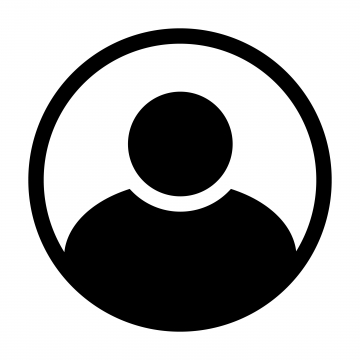
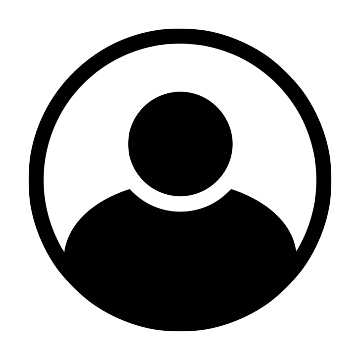
add placeholder image to account's image

Changed region(s): [[0.7944, 0.7639, 0.825, 0.7944], [0.7639, 0.7944, 0.7944, 0.825], [0.1833, 0.1833, 0.2139, 0.2139]]

diff --git a/lib/screens/home/components/account/account.dart b/lib/screens/home/components/account/account.dart
@@ -39,15 +39,23 @@ class _AccountState extends State<Account> {
               Padding(
                 padding: const EdgeInsets.only(right: 10),
                 child: Container(
+                  clipBehavior: Clip.hardEdge,
                   width: 60,
                   height: 60,
                   decoration: BoxDecoration(
                     shape: BoxShape.circle,
                     boxShadow: [kDefaultShadow],
-                    image: DecorationImage(
-                      image: NetworkImage(_user != null ? _user.photoURL : ''),
-                      fit: BoxFit.cover,
-                    ),
+                    // image: DecorationImage(
+                    //   image: NetworkImage(_user != null ? _user.photoURL : ''),
+                    //   fit: BoxFit.cover,
+                    // ),
+                  ),
+                  child: FadeInImage(
+                    placeholder: AssetImage("assets/images/user.png"),
+                    image: NetworkImage(_user != null ? _user.photoURL : ''),
+                    fit: BoxFit.cover,
+                    fadeInDuration: const Duration(milliseconds: 125),
+                    fadeOutDuration: const Duration(milliseconds: 125),
                   ),
                 ),
               ),

diff --git a/lib/screens/home/components/explore/components/activity_recommendation_card_vertical.dart b/lib/screens/home/components/explore/components/activity_recommendation_card_vertical.dart
@@ -24,12 +24,14 @@ class ActivityRecommendationCardVertical extends StatelessWidget {
       clipBehavior: Clip.hardEdge,
       height: _cardheight,
       decoration: BoxDecoration(
-          color: Colors.white,
-          border: Border(
-              bottom: BorderSide(
+        color: Colors.white,
+        border: Border(
+          bottom: BorderSide(
             color: fadedTextColor,
             width: 0.5,
-          ))),
+          ),
+        ),
+      ),
       child: Row(children: [
         Container(
           height: 120,
